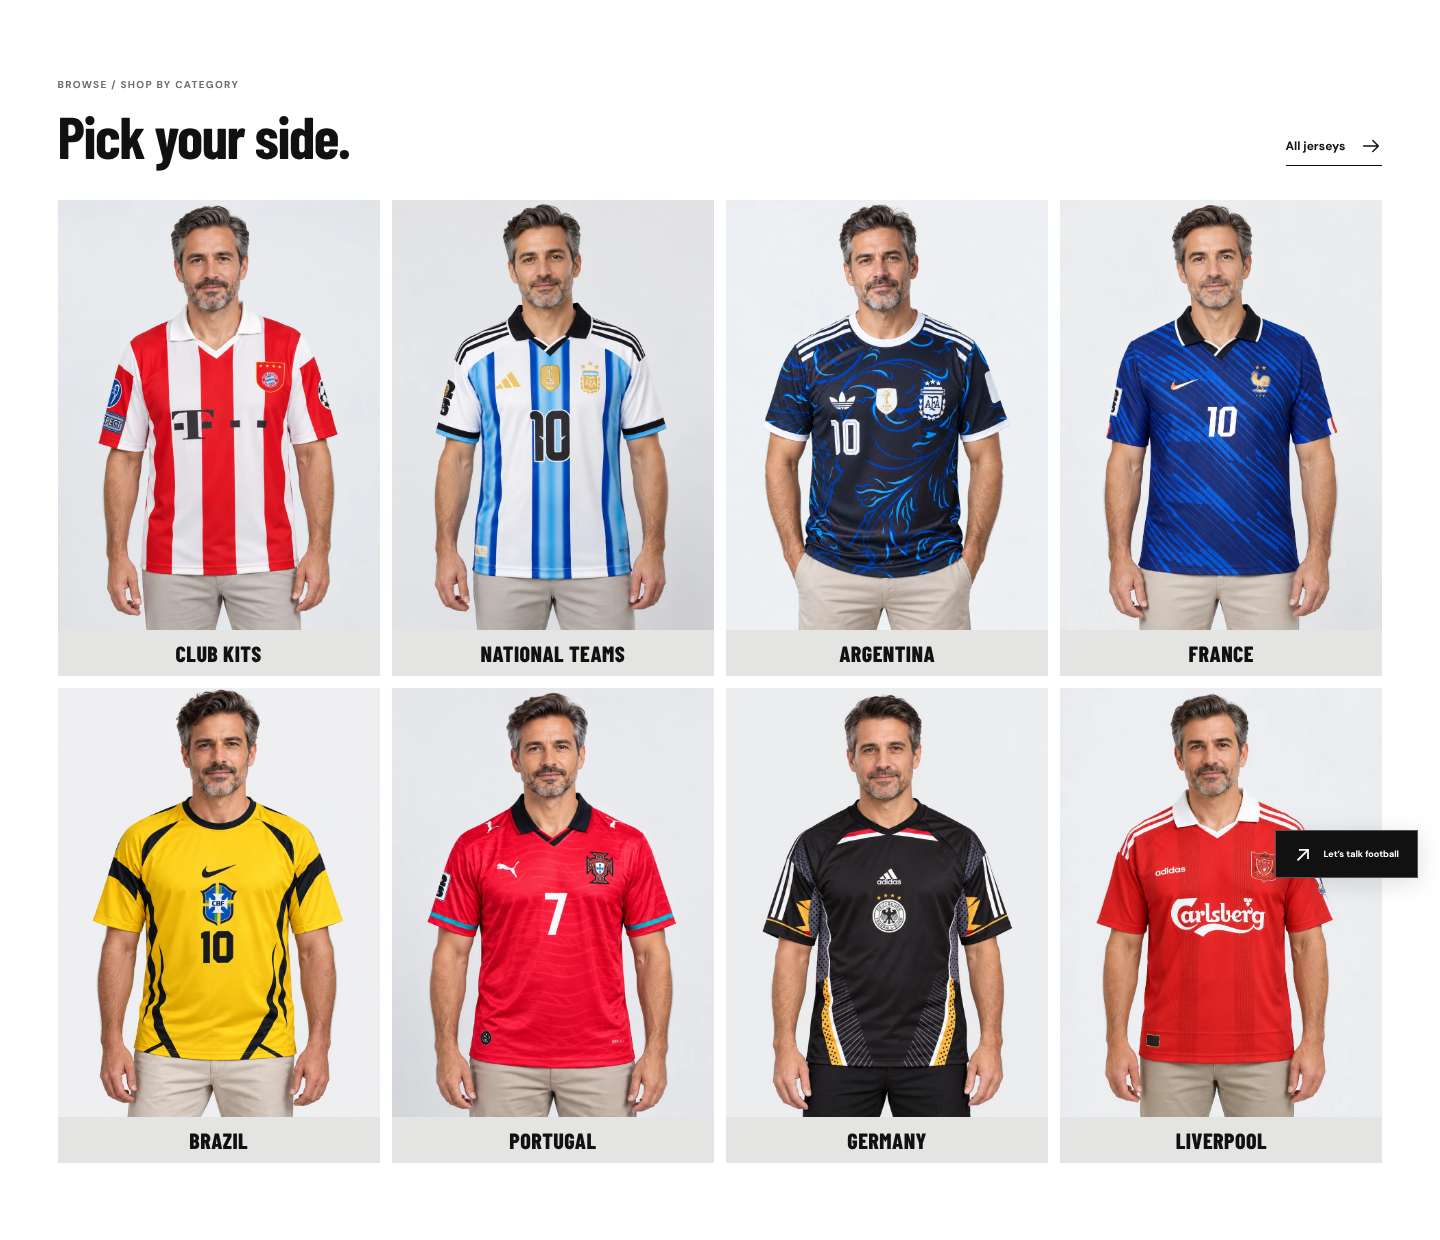
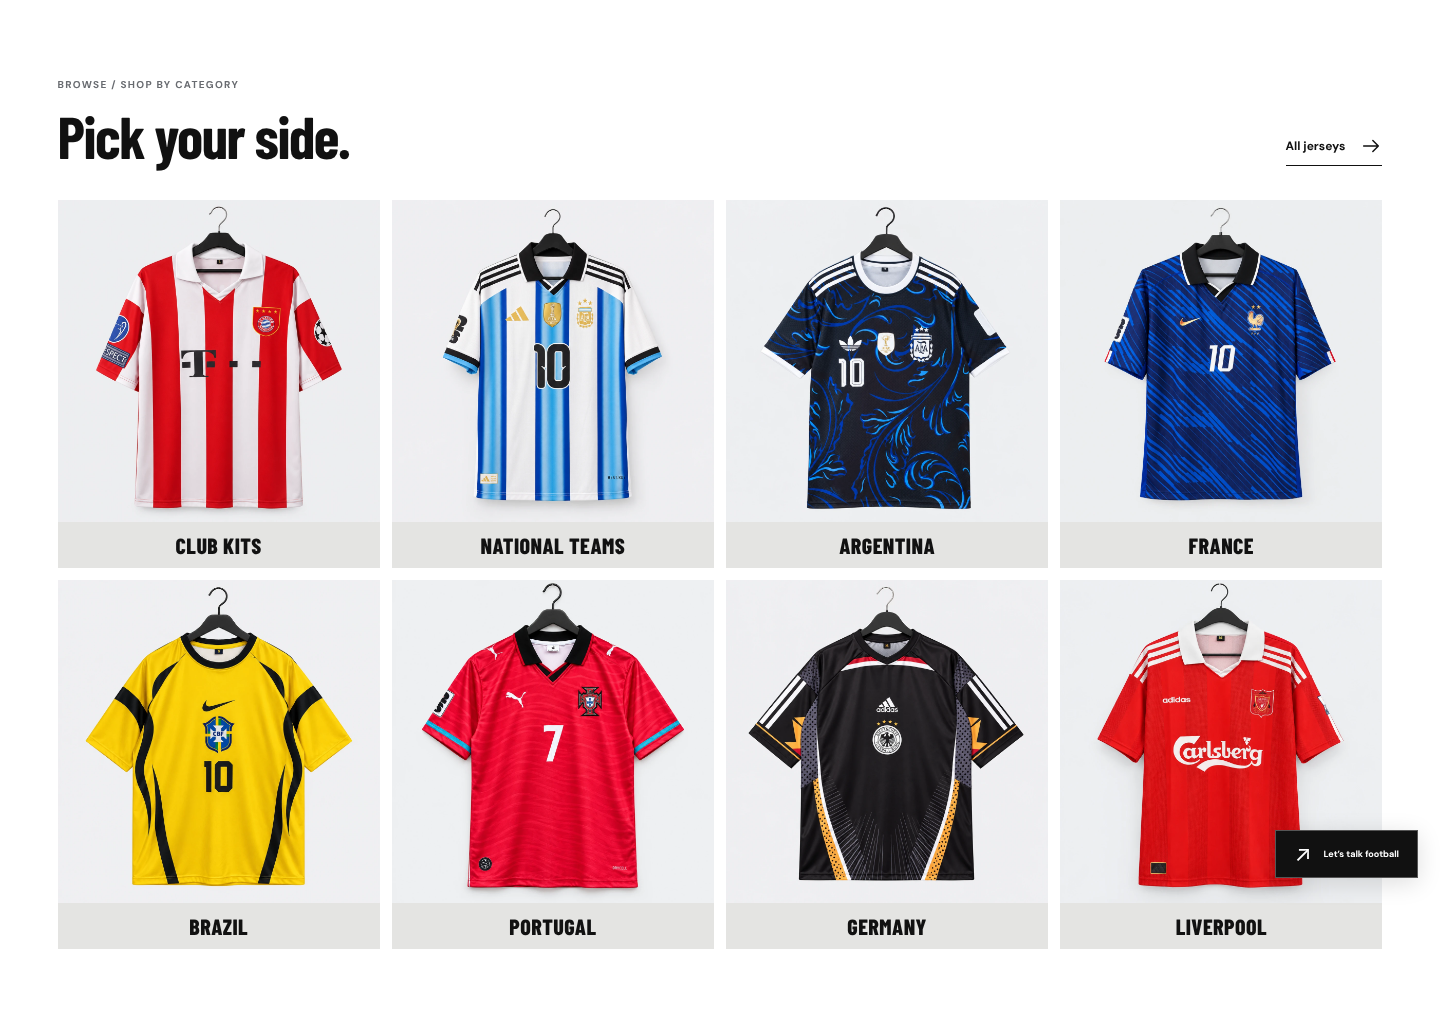
Category tiles use jersey images; Latest arrivals desktop grid (#6)
* Add home page screenshot

Claude-Session: https://claude.ai/code/session_01B2wqnGxrE4ZnkUXKktvXLc

* Use supplied football photos in collection tiles

Claude-Session: https://claude.ai/code/session_01B2wqnGxrE4ZnkUXKktvXLc

* Mobile collection tiles: staggered bento mosaic

Claude-Session: https://claude.ai/code/session_01B2wqnGxrE4ZnkUXKktvXLc

* Mobile collection tiles: swipeable portrait card rail

Claude-Session: https://claude.ai/code/session_01B2wqnGxrE4ZnkUXKktvXLc

* Maldini photo in manifesto; new action photo for Rare Drops tile

Claude-Session: https://claude.ai/code/session_01B2wqnGxrE4ZnkUXKktvXLc

* Show manifesto photo in full colour

Claude-Session: https://claude.ai/code/session_01B2wqnGxrE4ZnkUXKktvXLc

* Mobile: scroll-pinned collection rail (vertical scroll drives cards sideways, then releases)

Claude-Session: https://claude.ai/code/session_01B2wqnGxrE4ZnkUXKktvXLc

* Story page: split admin text into labelled sections, readable typography

Claude-Session: https://claude.ai/code/session_01B2wqnGxrE4ZnkUXKktvXLc

* Add cleaned Inter Milan third kit (Forlan 9) front and back images

Claude-Session: https://claude.ai/code/session_01B2wqnGxrE4ZnkUXKktvXLc

* Add Inter Milan Third (Forlan #9) to prepared jersey collection at 349

Claude-Session: https://claude.ai/code/session_01B2wqnGxrE4ZnkUXKktvXLc

* Home: auto-sliding hero photos and shop-by-category tiles

Claude-Session: https://claude.ai/code/session_01B2wqnGxrE4ZnkUXKktvXLc
[…]

Changed region(s): [[0.0312, 0.0624, 1.0, 0.9366], [0.9062, 0.0937, 0.9375, 0.1561]]

diff --git a/src/styles/index.css b/src/styles/index.css
@@ -3075,7 +3075,7 @@ details p {
 /* Shop by category tiles */
 .category-grid { display:grid; grid-template-columns:repeat(4,minmax(0,1fr)); gap:12px; }
 .category-tile { display:block; background:#e4e4e2; color:#111; text-decoration:none; overflow:hidden; }
-.category-tile img { display:block; width:100%; aspect-ratio:3 / 4; object-fit:cover; object-position:center 18%; transition:transform .6s cubic-bezier(.2,.7,.2,1); }
+.category-tile img { display:block; width:100%; aspect-ratio:1 / 1; object-fit:cover; object-position:center; transition:transform .6s cubic-bezier(.2,.7,.2,1); }
 .category-tile { position:relative; }
 .category-tile span {
   display:block; padding:12px 8px; text-align:center; background:#e4e4e2; position:relative; z-index:1;
@@ -3086,26 +3086,25 @@ details p {
 @media(max-width:900px) { .category-grid { grid-template-columns:repeat(2,minmax(0,1fr)); gap:10px; } }
 @media(max-width:620px) { .category-tile span { font-size:19px; padding:11px 6px; } }
 
-/* Latest arrivals: manual horizontal swipe row */
-.arrivals-row {
-  display:flex; gap:16px; overflow-x:auto; scroll-snap-type:x mandatory; -webkit-overflow-scrolling:touch;
-  padding-bottom:14px; scrollbar-width:thin; overscroll-behavior-x:contain;
-}
-.arrivals-row > .product-card { flex:0 0 calc((100% - 48px) / 4); scroll-snap-align:start; }
-.arrivals-controls { display:flex; gap:8px; }
-.arrivals-controls button {
-  width:44px; height:44px; border:1px solid currentColor; background:transparent; color:inherit;
-  font-size:20px; line-height:1; cursor:pointer;
-}
-.arrivals-controls button:hover { background:#111; color:#fff; }
+/* Latest arrivals: normal grid on desktop, manual swipe row on phones/tablets */
+.arrivals-row { display:grid; grid-template-columns:repeat(5,minmax(0,1fr)); gap:20px; }
 .arrivals-all {
   display:block; margin-top:26px; padding:16px; text-align:center; text-decoration:none; color:inherit;
   border:1px solid currentColor; border-radius:12px; font-weight:700; letter-spacing:.02em;
 }
 .arrivals-all:hover { background:#111; color:#fff; }
-@media(max-width:900px) { .arrivals-row > .product-card { flex-basis:calc((100% - 16px) / 2.3); } }
+@media(min-width:901px) and (max-width:1199px) {
+  .arrivals-row { grid-template-columns:repeat(4,minmax(0,1fr)); }
+  .arrivals-row > .product-card:nth-child(n+9) { display:none; }
+}
+@media(max-width:900px) {
+  .arrivals-row {
+    display:flex; gap:16px; overflow-x:auto; scroll-snap-type:x mandatory; -webkit-overflow-scrolling:touch;
+    padding-bottom:14px; scrollbar-width:thin; overscroll-behavior-x:contain;
+  }
+  .arrivals-row > .product-card { flex:0 0 calc((100% - 16px) / 2.3); scroll-snap-align:start; }
+}
 @media(max-width:620px) {
   .arrivals-row { gap:12px; margin-right:-16px; padding-right:16px; }
   .arrivals-row > .product-card { flex-basis:46%; }
-  .arrivals-controls { display:none; }
 }

diff --git a/src/new/Storefront.jsx b/src/new/Storefront.jsx
@@ -287,8 +287,13 @@ function useAutoSlide(count, ms = 5000) {
   return [index, setIndex];
 }
 function tileImage(p) {
-  const list = Array.isArray(p.images) ? p.images : [];
-  return list.find((u) => /model/i.test(u)) || p.image || list[0] || "";
+  /* Category tiles show the jersey itself (front view), never the model shot. */
+  const list = [p.image, ...(Array.isArray(p.images) ? p.images : [])].filter(Boolean);
+  return (
+    list.find((u) => /front/i.test(u)) ||
+    list.find((u) => !/model|back/i.test(u)) ||
+    ""
+  );
 }
 /* Category tiles are built from the live catalogue, so they follow whatever the admin publishes. */
 function buildCategoryTiles(products) {
@@ -325,7 +330,6 @@ export function Home() {
     latest = [...products]
       .sort((a, b) => (b.createdAt?.seconds || 0) - (a.createdAt?.seconds || 0))
       .slice(0, 10),
-    arrivalsRow = useRef(null),
     collSection = useRef(null),
     collPin = useRef(null),
     collRail = useRef(null),
@@ -435,22 +439,6 @@ export function Home() {
             <span className="eyebrow">02 / JUST DROPPED</span>
             <h2>Latest arrivals.</h2>
           </div>
-          <div className="arrivals-controls">
-            <button
-              type="button"
-              aria-label="Previous jerseys"
-              onClick={() => arrivalsRow.current?.scrollBy({ left: -arrivalsRow.current.clientWidth * 0.8, behavior: "smooth" })}
-            >
-              ←
-            </button>
-            <button
-              type="button"
-              aria-label="Next jerseys"
-              onClick={() => arrivalsRow.current?.scrollBy({ left: arrivalsRow.current.clientWidth * 0.8, behavior: "smooth" })}
-            >
-              →
-            </button>
-          </div>
         </div>
         {isSampleCatalogue && (
           <p className="sample-note">
@@ -462,7 +450,7 @@ export function Home() {
         {loading ? (
           <div className="loading">Loading jerseys…</div>
         ) : (
-          <div ref={arrivalsRow} className="arrivals-row" tabIndex={0} aria-label="Latest arrivals, swipe sideways for more">
+          <div className="arrivals-row" aria-label="Latest arrivals">
             {latest.map((p) => (
               <ProductCard key={p.id} product={p} />
             ))}
